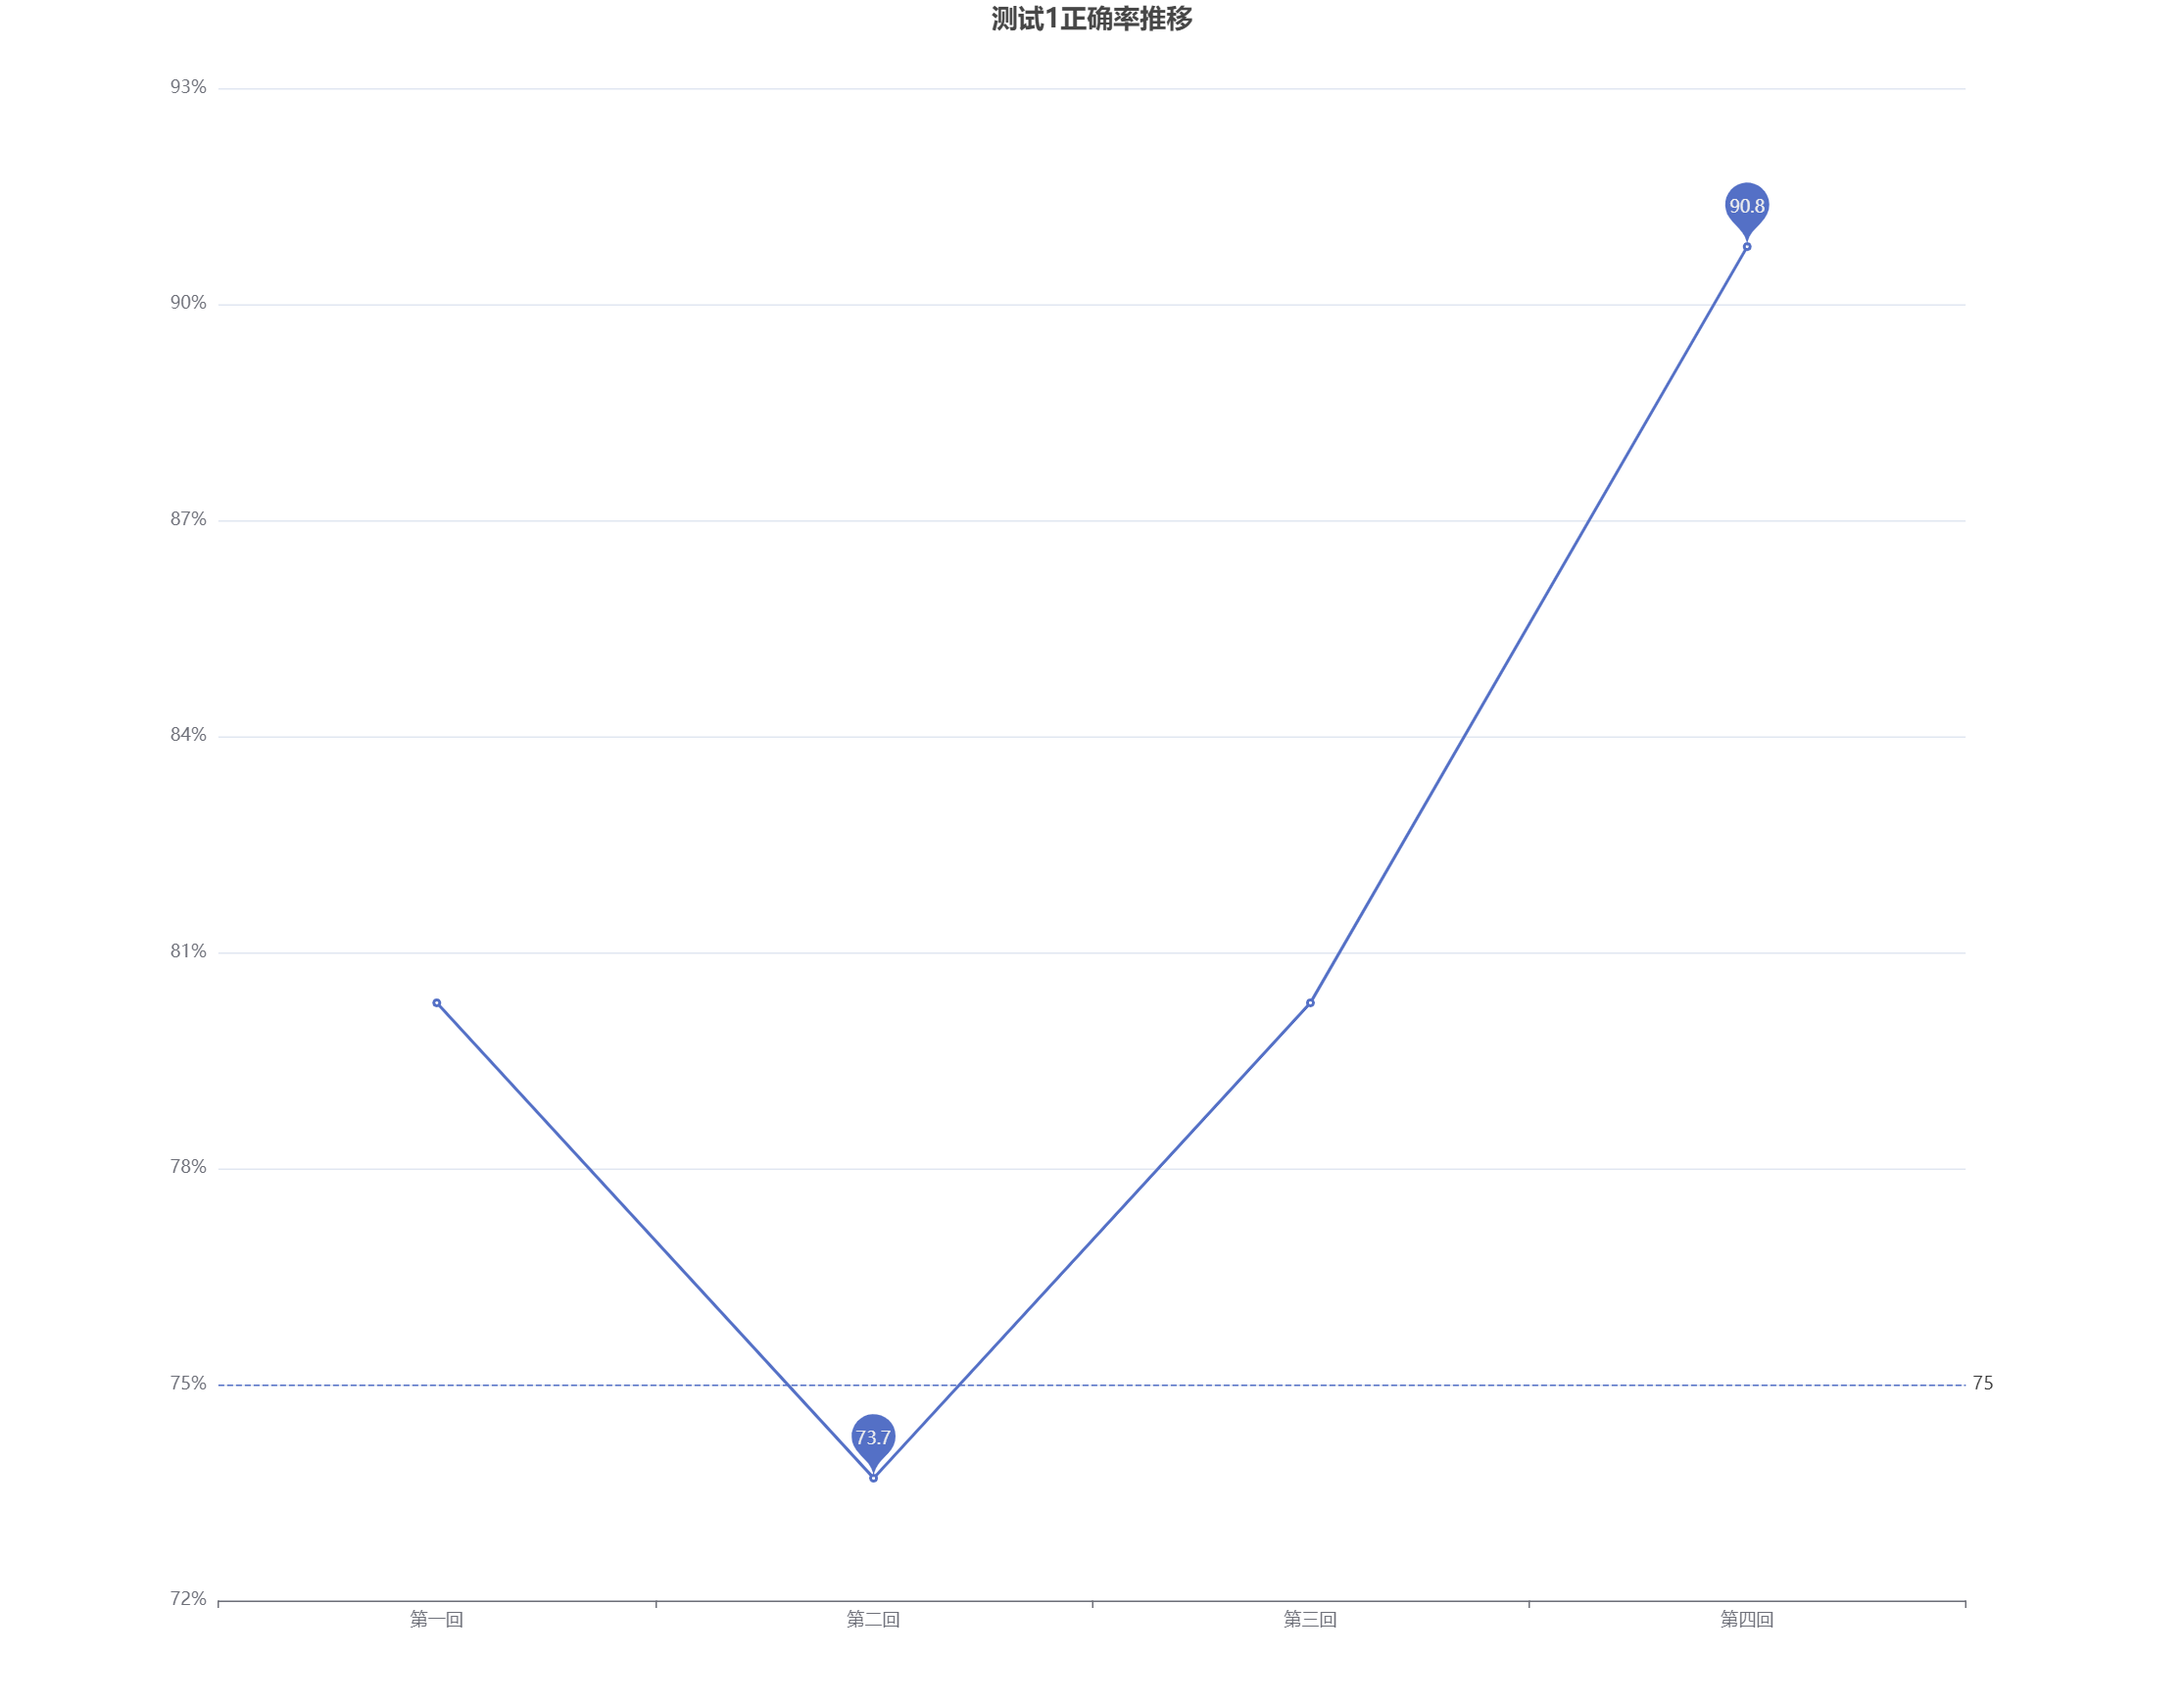
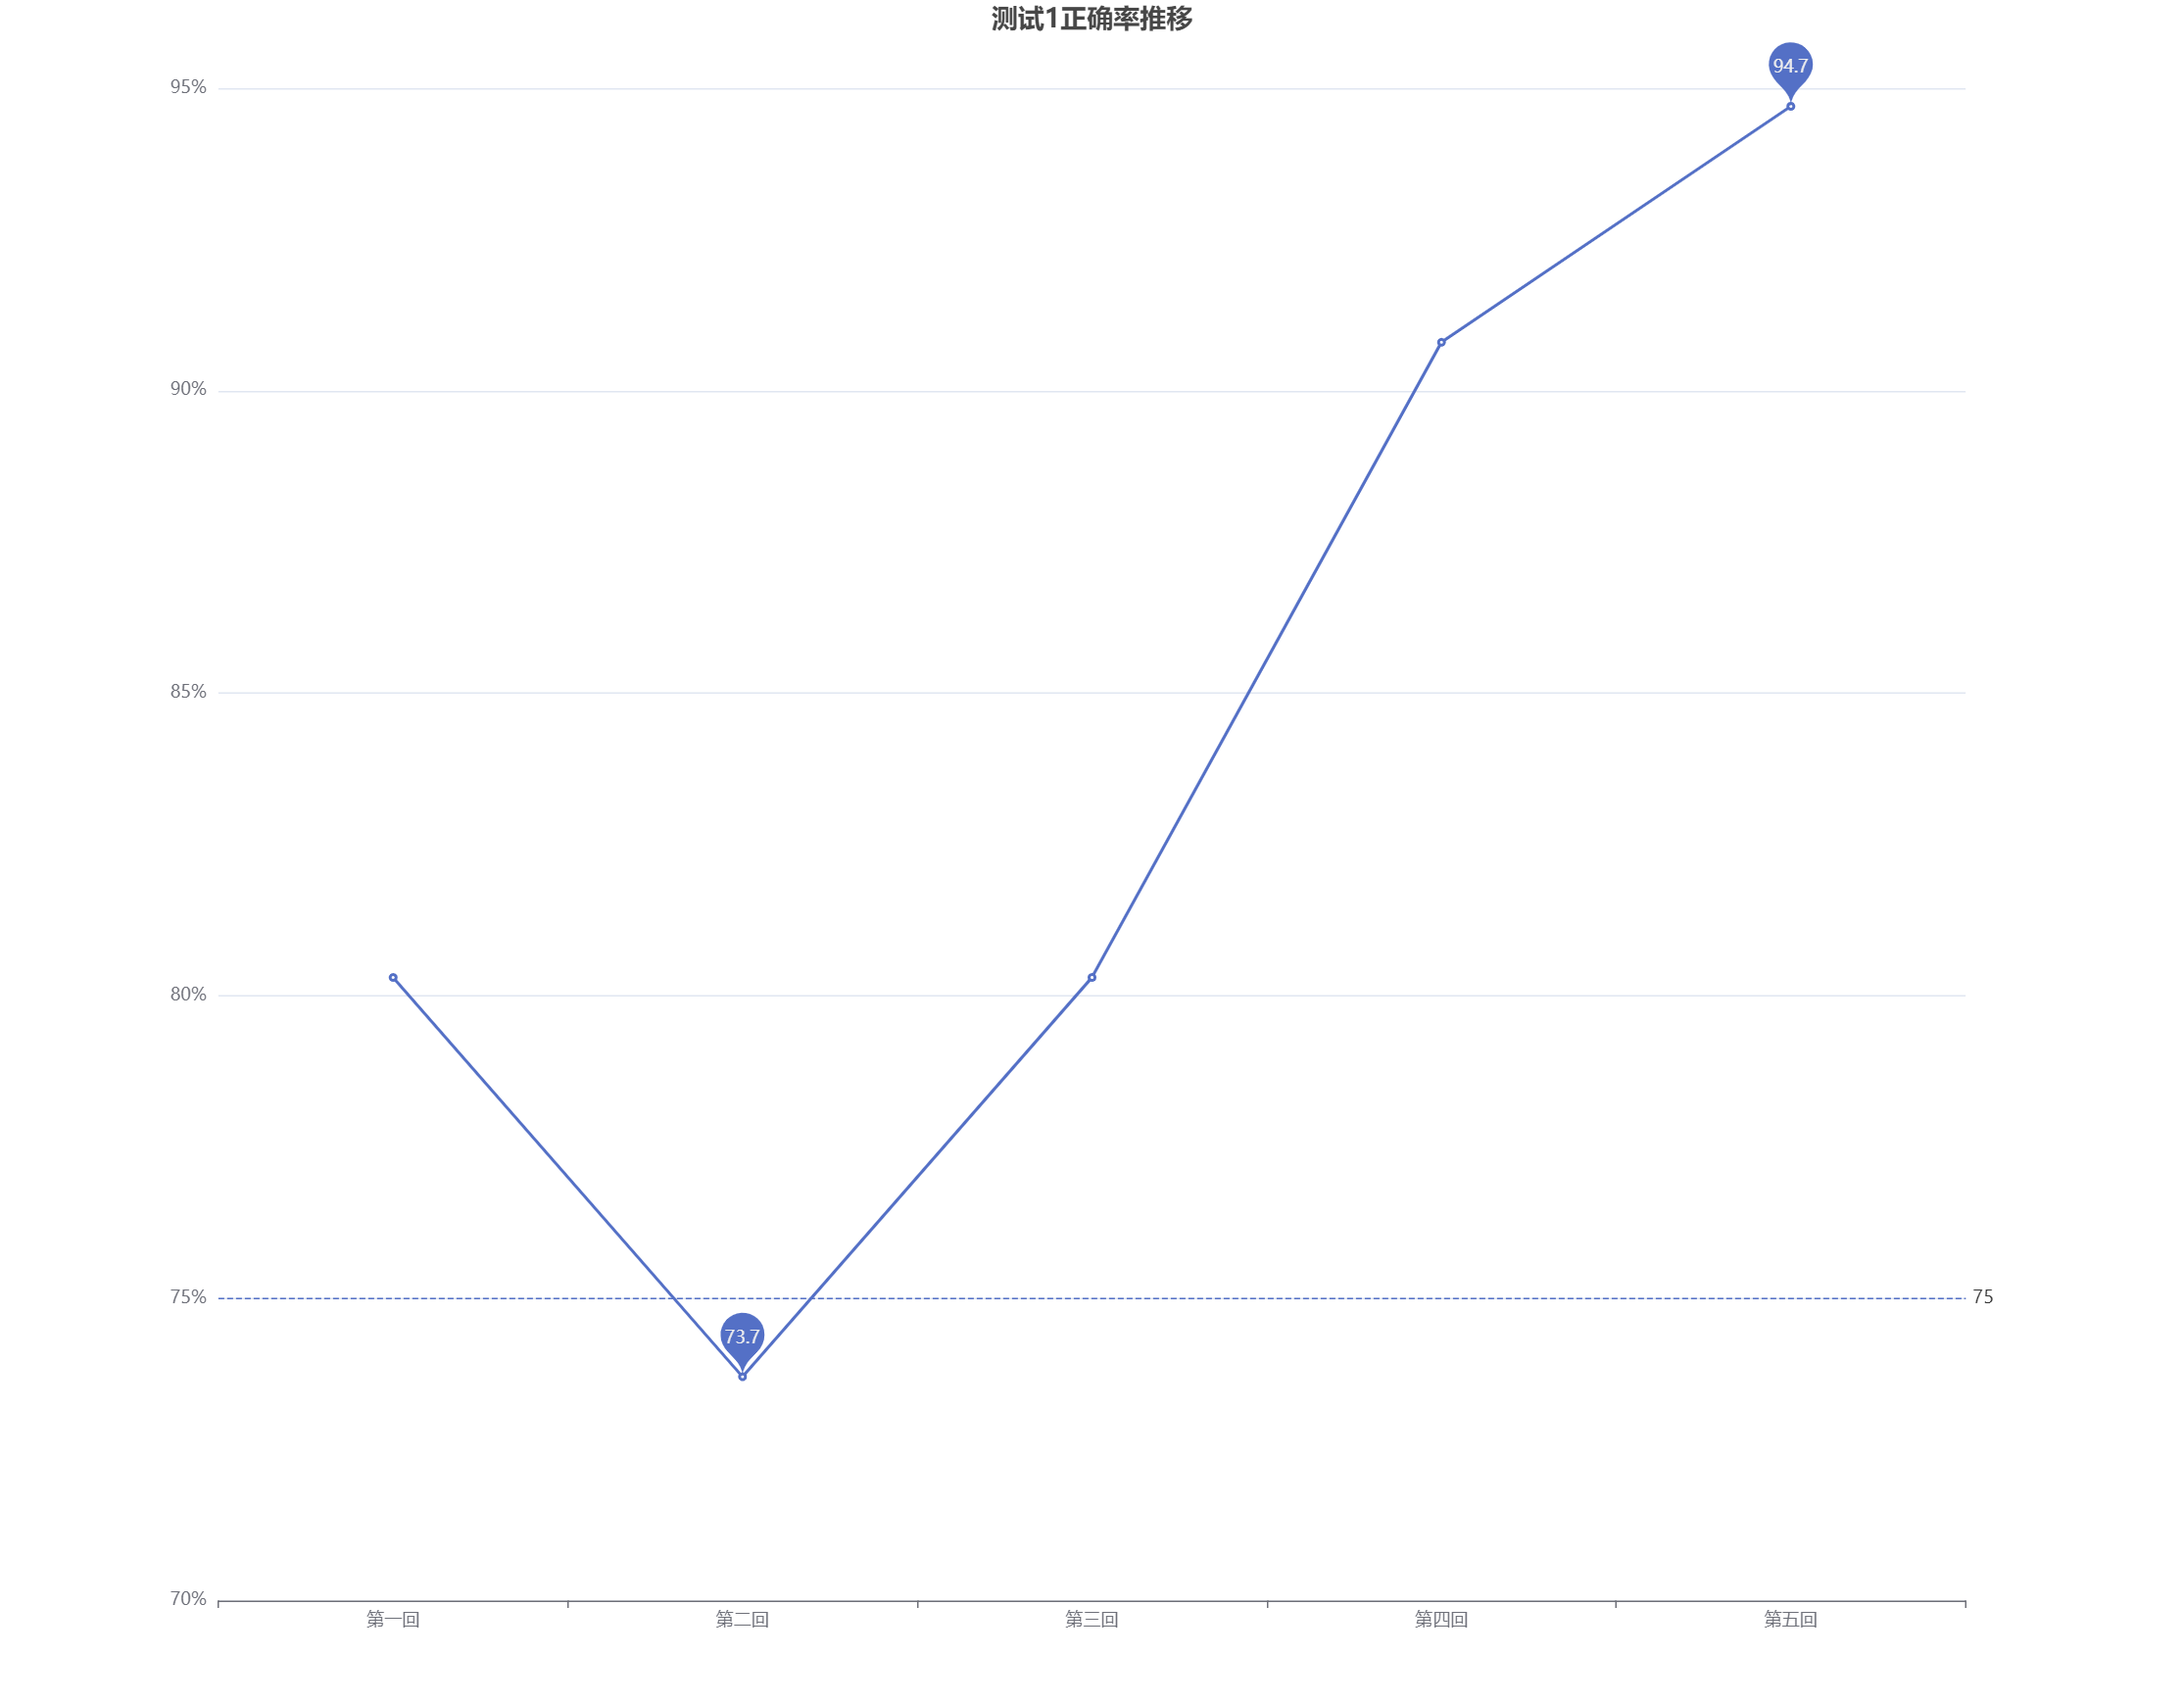
update test results

diff --git a/src/rate.js b/src/rate.js
@@ -8,7 +8,7 @@ option = {
   },
   xAxis: {
     type: 'category',
-    data: ['第一回', '第二回', '第三回', '第四回'],
+    data: ['第一回', '第二回', '第三回', '第四回', '第五回'],
   },
   yAxis: {
     type: 'value',
@@ -19,7 +19,7 @@ option = {
   },
   series: [
     {
-      data: [80.3, 73.7, 80.3, 90.8],
+      data: [80.3, 73.7, 80.3, 90.8, 94.7],
       type: 'line',
       markLine: {
         symbol: ['none', 'none'],
@@ -48,7 +48,7 @@ option = {
   },
   xAxis: {
     type: 'category',
-    data: ['第一回', '第二回', '第三回', '第四回'],
+    data: ['第一回', '第二回', '第三回', '第四回', '第五回'],
   },
   yAxis: {
     type: 'value',
@@ -59,7 +59,7 @@ option = {
   },
   series: [
     {
-      data: [76.3, 85.5, 89.5, 93.4],
+      data: [76.3, 85.5, 89.5, 93.4, 100],
       type: 'line',
       markLine: {
         symbol: ['none', 'none'],
@@ -88,7 +88,7 @@ option = {
   },
   xAxis: {
     type: 'category',
-    data: ['第一回', '第二回', '第三回', '第四回'],
+    data: ['第一回', '第二回', '第三回', '第四回', '第五回'],
   },
   yAxis: {
     type: 'value',
@@ -99,7 +99,7 @@ option = {
   },
   series: [
     {
-      data: [69.7, 90.8, 94.7, 93.4],
+      data: [69.7, 90.8, 94.7, 93.4, 98.7],
       type: 'line',
       markLine: {
         symbol: ['none', 'none'],

diff --git a/src/result.js b/src/result.js
@@ -15,25 +15,26 @@ option = {
         ['17', 2],
         ['18', 1],
         ['19', 2],
-        ['22', 2],
+        ['22', 3],
         ['23', 1],
         ['24', 2],
         ['27', 2],
         ['29', 1],
         ['30', 2],
         ['36', 1],
-        ['38', 2],
+        ['38', 3],
         ['39', 2],
         ['41', 1],
         ['44', 1],
         ['45', 1],
         ['46', 2],
         ['48', 1],
-        ['51', 2],
+        ['51', 3],
         ['52', 2],
         ['55', 2],
         ['58', 1],
         ['59', 2],
+        ['60', 1],
         ['61', 2],
         ['62', 1],
         ['63', 3],
@@ -153,7 +154,7 @@ option = {
         ['59', 1],
         ['61', 1],
         ['64', 3],
-        ['71', 1],
+        ['71', 2],
         ['72', 1],
         ['73', 2],
         ['75', 2],

diff --git a/错题集/README.md b/错题集/README.md
@@ -1,4 +1,4 @@
-# AWS MLS 131-228
+# 错题集
 
 1. 一家游戏公司推出了一款网络游戏，人们可以免费开始玩，但如果他们选择使用某些功能就需要付费。该公司需要建立一个自动系统来预测一个新用户是否会在一年内成为付费用户。该公司已经收集了一个来自一百万用户的标记数据集。训练数据集包括1000个正样本（来自一年内最终付费的用户）和99.9万个负样本（来自没有使用任何付费功能的用户）。每个数据样本由200个特征组成，包括用户年龄、设备、位置和游戏模式。使用这个数据集进行训练，数据科学团队训练了一个随机森林模型，在训练集上收敛了99%以上的准确性。然而，测试数据集上的预测结果并不令人满意。数据科学团队应该采取以下哪种方法来缓解这个问题？(选择两个) A gaming company has launched an online game where people can start playing for free, but they need to pay if they choose to use certain features. The company needs to build an automated system to predict whether a new user will become a paid user within one year. The company has gathered a labeled dataset from one million users. The training dataset consists of 1,000 positive sample (from users who ended up paying within one year) and 999,000 negative samples (from users who did not use any paid features). Each data sample consists of 200 features including user age, device, location, and play patterns. Using this dataset for training, the Data Science team trained a random forest model that converged with over 99% accuracy on the training set. However, the prediction results on a test dataset were not satisfactory. Which of the following approaches should the Data Science team take to mitigate this issue? (Choose two)
    - [ ] A. 在随机森林中加入更多的深度树，使模型能够学习更多的特征。 Add more deep trees to the random forest to enable the model to learn more features.
@@ -144,6 +144,48 @@
     - [ ] C. 使用EMR来运行Hive查询，以建立一个流失客户的档案。对现有的客户应用档案，以确定客户流失的可能性。 Use EMR to run the Hive queries to build a profile of a churning customer. Apply a profile to existing customers to determine the likelihood of churn.
     - [ ] D. 使用Redshift集群从Amazon S3复制数据。在Redshift中创建一个用户定义的函数来计算客户流失的可能性。 Use a Redshift cluster to COPY the data from Amazon S3. Create a User Defined Function in Redshift that computes the likelihood of churn.
 
+    <details>
+       <summary>Answer</summary>
+
+       答案A。
+
+    </details>
+
+12. 机器学习专家正在训练一个模型来识别图像中的车辆品牌和型号。专家希望使用转移学习和一个在一般物体的图像上训练的现有模型。专家整理了一个包含不同车辆品牌和型号的大型自定义图片数据集。专家应该如何初始化模型，以便用自定义数据重新训练它？ Machine Learning Specialist is training a model to identify the make and model of vehicles in images. The Specialist wants to use transfer learning and an existing model trained on images of general objects. The Specialist collated a large custom dataset of pictures containing different vehicle makes and models. What should the Specialist do to initialize the model to re-train it with the custom data?
+    - [ ] A. 在所有层中用随机权重初始化模型，包括最后的全连接层。 Initialize the model with random weights in all layers including the last fully connected layer
+    - [ ] B. 用所有层的预训练权重初始化模型，并替换最后一个全连接层。 Initialize the model with pre-trained weights in all layers and replace the last fully connected layer.
+    - [ ] C. 在所有层中用随机权重初始化模型，并替换最后一个全连接层。 Initialize the model with random weights in all layers and replace the last fully connected layer.
+    - [ ] D. 用所有层的预训练权重初始化模型，包括最后一个全连接层。 Initialize the model with pre-trained weights in all layers including the last fully connected layer.
+  
+    <details>
+       <summary>Answer</summary>
+
+       答案B。
+
+    </details>
+
+13. 一家移动网络运营商正在建立一个分析平台，使用Amazon Athena和Amazon S3来分析和优化公司的运营。源系统实时发送CSV格式的数据。数据工程团队希望在将数据存储到Amazon S3之前将其转换为Apache Parquet格式，哪种解决方案的实施工作量最小？ A Mobile Network Operator is building an analytics platform to analyze and optimize a company‘’s operations using Amazon Athena and Amazon S3. The source systems send data in CSV format in real time. The Data Engineering team wants to transform the data to the Apache Parquet format before storing it on Amazon S3 Which solution takes the LEAST effort to implement?
+    - [ ] A. 使用Apache Kafka Streams在Amazon EC2实例上摄取CSV数据，并使用Kafka Connect S3将数据序列化为Parquet。 Ingest CSV data using Apache Kafka Streams on Amazon EC2 instances and use Kafka Connect S3 to serialize data as Parquet.
+    - [ ] B. 从Amazon Kinesis数据流摄取CSV数据，并使用Amazon Glue将数据转换为Parquet。 Ingest CSV data from Amazon Kinesis Data Streams and use Amazon Glue to convert data into Parquet.
+    - [ ] C. 在Amazon MR集群中使用Apache Spark结构化流摄取CSV数据，并使用Apache Spark将数据转换为Parquet。 Ingest CSV data using Apache Spark Structured Streaming in an Amazon MR cluster and use Apache Spark to convert data into Parquet.
+    - [ ] D. 从Amazon Kinesis数据流摄取CSV数据，并使用Amazon Kinesis Data Firehose将数据转换为Parquet。 Ingest CSV data from Amazon Kinesis Data Streams and use Amazon Kinesis Data Firehose to convert data into Parquet.
+
+    <details>
+       <summary>Answer</summary>
+
+       答案B。
+
+    </details>
+
+14. 一家公司希望将用户行为分类为欺诈行为或正常行为。根据内部研究，一位机器学习专家希望建立一个基于两个特征的二进制分类器：账户年龄和交易月份。这些特征的类别分布如图所示。基于这些信息，哪个模型对欺诈类的召回率最高？ A company wants to classify user behavior as either fraudulent or normal. Based on internal research, a Machine Learning Specialist would like to build a binary classifier based on two features: age of account and transaction month. The class distribution for these features is illustrated in the figure provided. Based on this information, which model would have the HIGHEST recall with respect to the fraudulent class?
+
+    ![51](../第1套/img/51.png)
+
+    - [ ] A. 决策树 Decision tree
+    - [ ] B. 线性支持向量机(SVM) Linear support vector machine (SVM)
+    - [ ] C. 奈何贝叶斯分类器 Naive Bayesian classifier
+    - [ ] D. 带有西格玛激活函数的单感知器 Single Perceptron with sigmoidal activation function
+  
     <details>
        <summary>Answer</summary>
 
